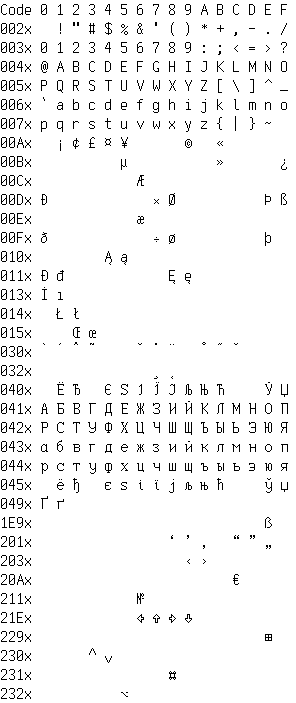
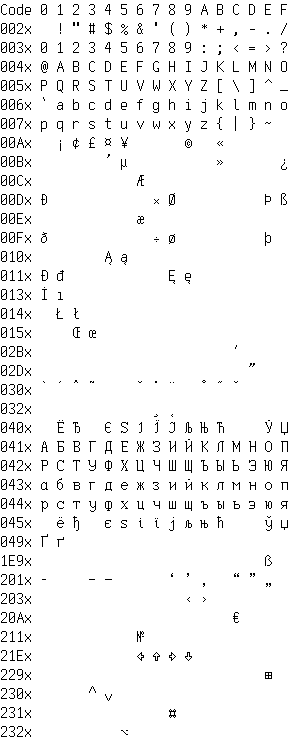
New codepoints

diff --git a/export.js b/export.js
@@ -109,14 +109,13 @@ writeFileSync('./Example.png', getImage([
     'ŔÁÂĂÄĹĆÇČÉĘËĚÍÎĎĐŃŇÓÔŐÖŘŮÚŰÜÝŢẞ',
     'ŕáâăäĺćçčéęëěíîďđńňóôőöřůúűüýţß',
     'ЂЃѓЉЊЌЋЏђљњќћџЎўЈҐЁЄЇІіґёєјЅѕї',
-    '×÷№µ©€¢£¥¤ ¿A? ¡B!',
+    '⇧⌥⌘⊞ ⇦⇧⇨⇩⌃⌄ ×÷№µ©€¢£¥¤ ¿A? ¡B!',
     'ÑÒÕÀÃÅÈÊÌÏÙÛĞİŸŚŤŽŹĽŻŠĄŞŁŒÆÐØÞ',
     'ñòõàãåèêìïùûğıÿśťžźľżšąşłœæðøþ',
     '«French», ‹French›, “English”, ‘English’, „German“, ‚German‘',
     'Cop Сор, Box Вох, Check Сплеск, Cocoa Сосна,',
-    '⌃⇧⌥⌘⊞ ⇦⇧⇨⇩⌃⌄',
+    '— Hello Em Dash & En–Dash, y=10-x*2, hy‐phen‐ate, мʼята, double ac˝ute ´2024',
     // TODO:
-    // ʼ ´ ˝  –—  
     // '…†‡‰.•™ˇ˘',
     // '¦§¨¬®°±˛¶·¸',
     // '˙ƒˆ˜ª¯º¼½¾',
